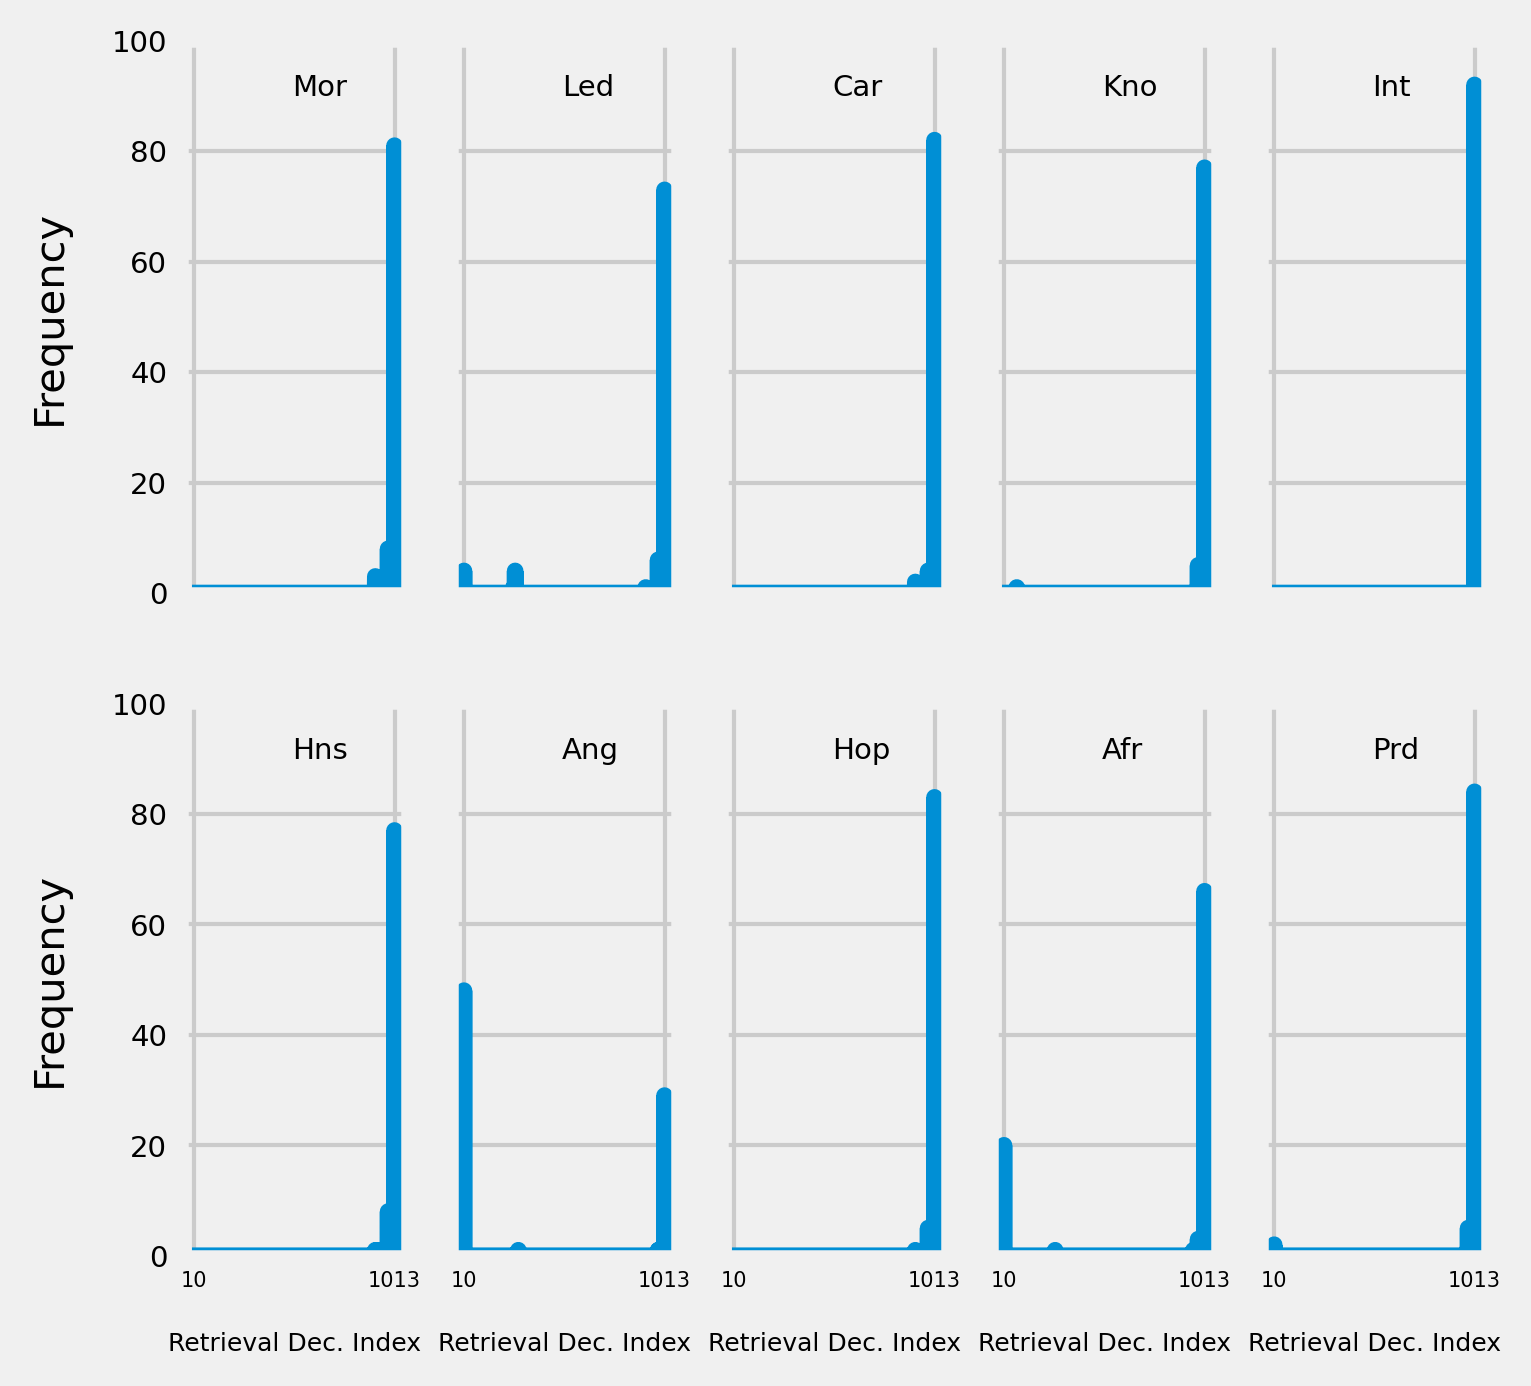
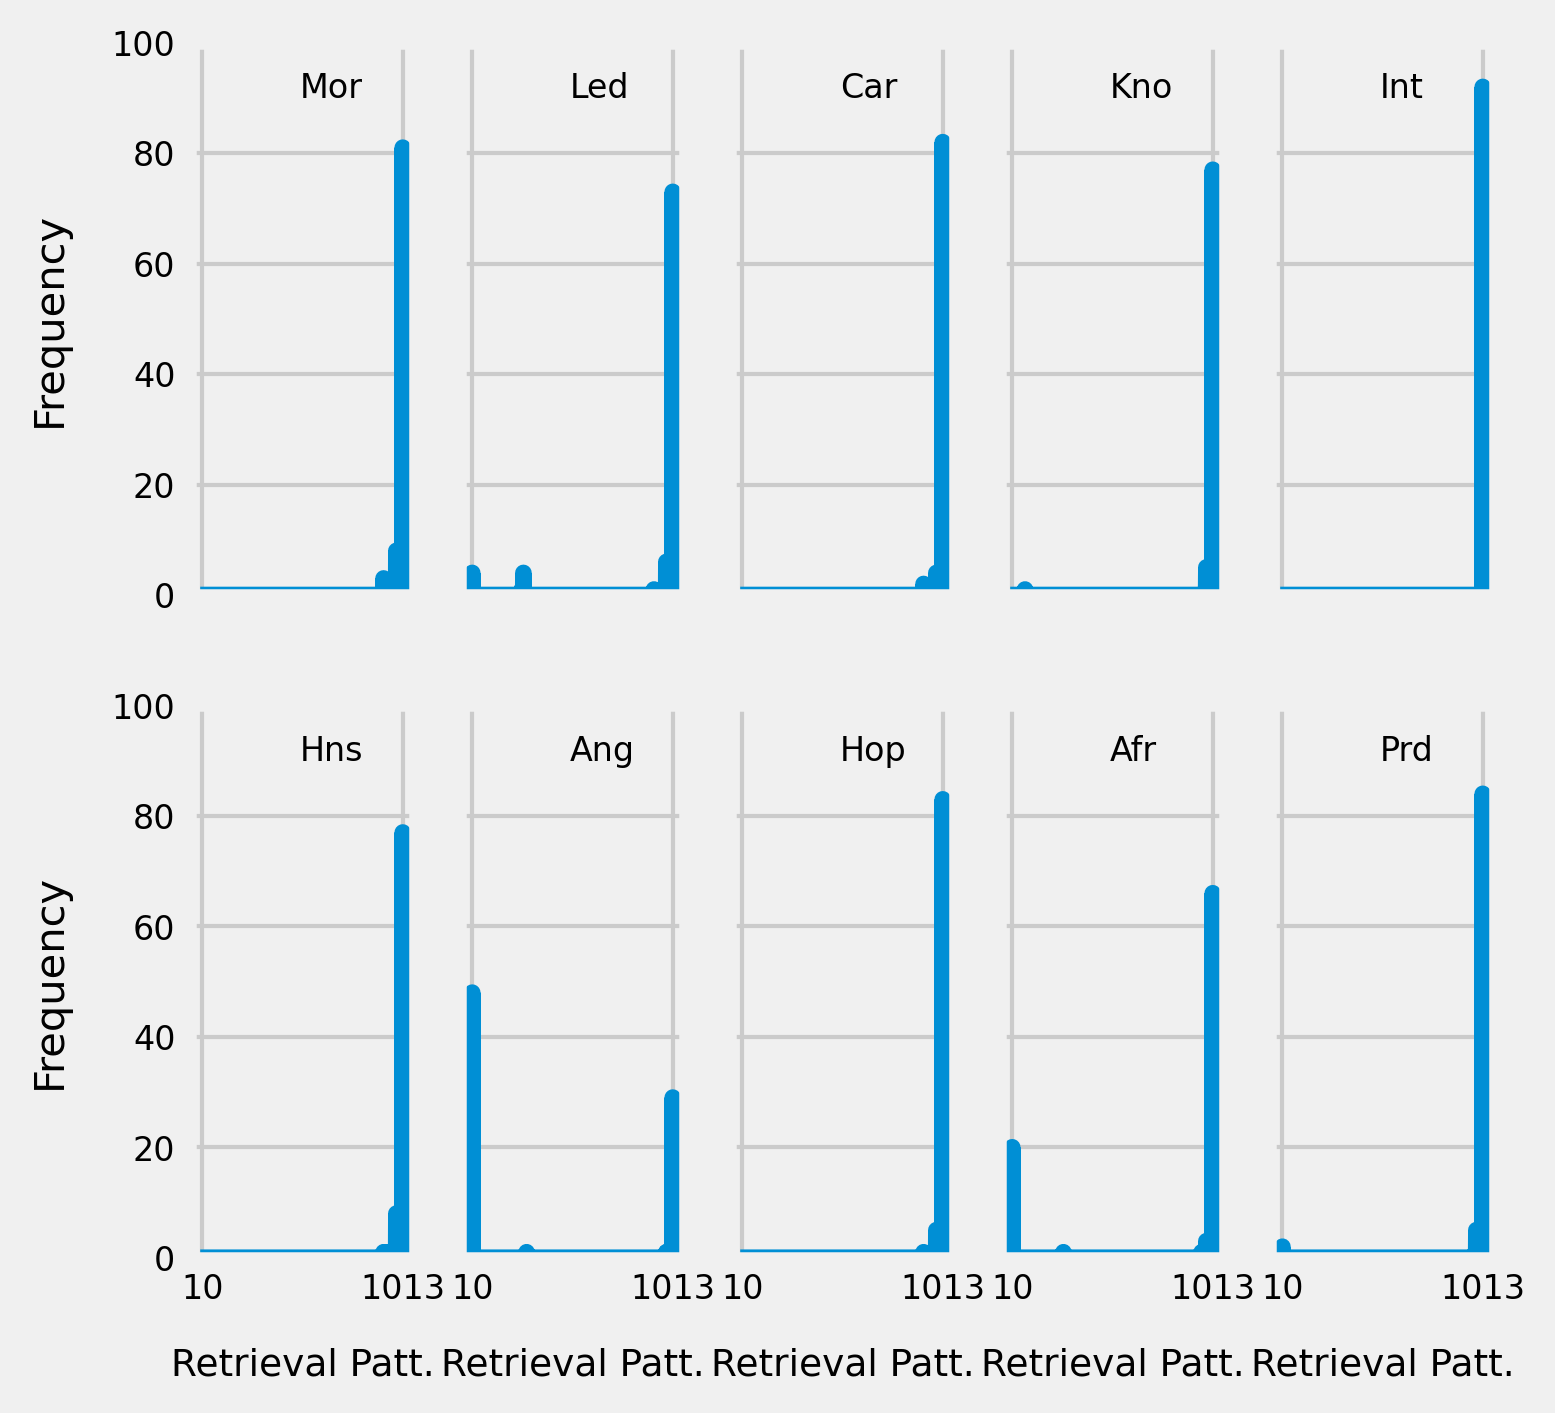
std

diff --git a/src/sims/file5.py b/src/sims/file5.py
@@ -83,14 +83,14 @@ x = np.arange(0,10)
 fig, axes = plt.subplots(1,1,figsize=(5,5))
 
 axes.plot(x,can_catch_cue_wass,color='blue',marker='o',dashes=[0,2,2,2],label='CAN',linewidth=1)
-axes.plot(x,ibl_catch_cue_wass,color='black',marker='+',dashes=[0,0,2,2],label='IBL',linewidth=1)
+axes.plot(x,ibl_catch_cue_wass,color='black',marker='+',dashes=[0,0,2,2],label='ACT-R',linewidth=1)
 axes.legend()
 
-axes.set_xlabel('Retrieval Cue', labelpad=2,size=10)
-axes.set_ylabel('Wass. Distance', labelpad=1,size=10)
+axes.set_xlabel('Retrieval Cue', labelpad=2,size=12)
+axes.set_ylabel('Wasserstein Distance', labelpad=1,size=12)
 axes.set_ylim([0,1])
-axes.tick_params(axis='x', labelsize=7)
-axes.tick_params(axis='y', labelsize=7)
+axes.tick_params(axis='x', labelsize=9)
+axes.tick_params(axis='y', labelsize=9)
 axes.set_xticks(x)
 axes.set_xticklabels(labels=['Mor','Led','Car', 'Kno', 'Int', 'Hns', 'Ang', 'Hop', 'Afr', 'Prd'])
 plt.savefig(f'{graph_out_dir}Cued_WASS_CAN-IBL.png',dpi=300,bbox_inches='tight')
@@ -113,25 +113,25 @@ for x in range(0,2):
         axes[x,y].plot(ibl.dist_of_endstates(sim_endstates))
         axes[x,y].set_ylim(0,100)
         
-        axes[x,y].text(500,90,cue_list[counter],fontsize=7)
+        axes[x,y].text(500,90,cue_list[counter],fontsize=8)
         counter = counter+1
         #print(x,' ',y,' ',counter)
 
 axes[0,0].set_ylabel('Frequency', labelpad=10,size=10)
 axes[1,0].set_ylabel('Frequency', labelpad=10,size=10)
-axes[1,0].set_xlabel('Retrieval Dec. Index', labelpad=10,size=6)
-axes[1,1].set_xlabel('Retrieval Dec. Index', labelpad=10,size=6)
-axes[1,2].set_xlabel('Retrieval Dec. Index', labelpad=10,size=6)
-axes[1,3].set_xlabel('Retrieval Dec. Index', labelpad=10,size=6)
-axes[1,4].set_xlabel('Retrieval Dec. Index', labelpad=10,size=6)
+axes[1,0].set_xlabel('Retrieval Patt.', labelpad=10,size=9)
+axes[1,1].set_xlabel('Retrieval Patt.', labelpad=10,size=9)
+axes[1,2].set_xlabel('Retrieval Patt.', labelpad=10,size=9)
+axes[1,3].set_xlabel('Retrieval Patt.', labelpad=10,size=9)
+axes[1,4].set_xlabel('Retrieval Patt.', labelpad=10,size=9)
 
-axes[1,0].tick_params(axis='x', labelsize=5)
-axes[1,1].tick_params(axis='x', labelsize=5)
-axes[1,2].tick_params(axis='x', labelsize=5)
-axes[1,3].tick_params(axis='x', labelsize=5)
-axes[1,4].tick_params(axis='x', labelsize=5)
-axes[0,0].tick_params(axis='y', labelsize=7)
-axes[1,0].tick_params(axis='y', labelsize=7)
+axes[1,0].tick_params(axis='x', labelsize=8)
+axes[1,1].tick_params(axis='x', labelsize=8)
+axes[1,2].tick_params(axis='x', labelsize=8)
+axes[1,3].tick_params(axis='x', labelsize=8)
+axes[1,4].tick_params(axis='x', labelsize=8)
+axes[0,0].tick_params(axis='y', labelsize=8)
+axes[1,0].tick_params(axis='y', labelsize=8)
 axes[1,0].set_xticks([10,1013])
 axes[1,0].set_xticklabels(labels=['10','1013'])
 
@@ -154,25 +154,25 @@ for x in range(0,2):
         axes[x,y].plot(ibl.dist_of_endstates(sim_endstates))
         axes[x,y].set_ylim(0,100)
         
-        axes[x,y].text(500,90,cue_list[counter],fontsize=7)
+        axes[x,y].text(500,90,cue_list[counter],fontsize=8)
         counter = counter+1
         #print(x,' ',y,' ',counter)
 
 axes[0,0].set_ylabel('Frequency', labelpad=10,size=10)
 axes[1,0].set_ylabel('Frequency', labelpad=10,size=10)
-axes[1,0].set_xlabel('Retrieval Dec. Index', labelpad=10,size=6)
-axes[1,1].set_xlabel('Retrieval Dec. Index', labelpad=10,size=6)
-axes[1,2].set_xlabel('Retrieval Dec. Index', labelpad=10,size=6)
-axes[1,3].set_xlabel('Retrieval Dec. Index', labelpad=10,size=6)
-axes[1,4].set_xlabel('Retrieval Dec. Index', labelpad=10,size=6)
+axes[1,0].set_xlabel('Retrieval Patt.', labelpad=10,size=9)
+axes[1,1].set_xlabel('Retrieval Patt.', labelpad=10,size=9)
+axes[1,2].set_xlabel('Retrieval Patt.', labelpad=10,size=9)
+axes[1,3].set_xlabel('Retrieval Patt.', labelpad=10,size=9)
+axes[1,4].set_xlabel('Retrieval Patt.', labelpad=10,size=9)
 
-axes[1,0].tick_params(axis='x', labelsize=5)
-axes[1,1].tick_params(axis='x', labelsize=5)
-axes[1,2].tick_params(axis='x', labelsize=5)
-axes[1,3].tick_params(axis='x', labelsize=5)
-axes[1,4].tick_params(axis='x', labelsize=5)
-axes[0,0].tick_params(axis='y', labelsize=7)
-axes[1,0].tick_params(axis='y', labelsize=7)
+axes[1,0].tick_params(axis='x', labelsize=8)
+axes[1,1].tick_params(axis='x', labelsize=8)
+axes[1,2].tick_params(axis='x', labelsize=8)
+axes[1,3].tick_params(axis='x', labelsize=8)
+axes[1,4].tick_params(axis='x', labelsize=8)
+axes[0,0].tick_params(axis='y', labelsize=8)
+axes[1,0].tick_params(axis='y', labelsize=8)
 axes[1,0].set_xticks([10,1013])
 axes[1,0].set_xticklabels(labels=['10','1013'])
 

diff --git a/src/sims/file1.py b/src/sims/file1.py
@@ -28,62 +28,17 @@ plt.style.use('fivethirtyeight')
 fig, axes = plt.subplots(1,1,figsize=(5,5),sharex=True,sharey=True)
 axes.plot(ibl.dist_of_endstates(real_sim_endstates))
 axes.set_ylabel('Frequency', labelpad=3,size=10)
-axes.set_xlabel('Retrieval Dec. Index', labelpad=3,size=10)
-axes.tick_params(axis='x', labelsize=5)
-axes.tick_params(axis='y', labelsize=7)
+axes.set_xlabel('Respondent Decimal Index', labelpad=3,size=10)
+axes.tick_params(axis='x', labelsize=10)
+axes.tick_params(axis='y', labelsize=10)
 
 #axes.set_xticks([10,1013])
 #axes.set_xticklabels(labels=['10','1013'],rotation=45)
-axes.set_xticks([0,10,100,500,1000,1023])
-axes.set_xticklabels(labels=[0,10,100,500,1000,1023],rotation=60)
+axes.set_xticks([10,100,500,1013])
+axes.set_xticklabels(labels=[10,100,500,1013],rotation=60)
 plt.savefig(f'{graph_out_dir}Fig_Gibbs_RealData.png',dpi=400,bbox_inches='tight')
 
 '''COMBINE INTO ONE PLOT'''
-
-
-
-axes[0,0].set_ylabel('Frequency (IBL)', labelpad=10,size=10)
-axes[1,0].set_ylabel('Frequency (CAN)', labelpad=10,size=10)
-axes[1,0].set_xlabel('Retrieval Dec. Index', labelpad=10,size=6)
-axes[1,1].set_xlabel('Retrieval Dec. Index', labelpad=10,size=6)
-axes[1,2].set_xlabel('Retrieval Dec. Index', labelpad=10,size=6)
-axes[1,3].set_xlabel('Retrieval Dec. Index', labelpad=10,size=6)
-
-axes[1,0].tick_params(axis='x', labelsize=5)
-axes[1,1].tick_params(axis='x', labelsize=5)
-axes[1,2].tick_params(axis='x', labelsize=5)
-axes[1,3].tick_params(axis='x', labelsize=5)
-axes[0,0].tick_params(axis='y', labelsize=7)
-axes[1,0].tick_params(axis='y', labelsize=7)
-axes[1,0].set_xticks([10,1013])
-axes[1,0].set_xticklabels(labels=['10','1013'])
-
-#CAN
-noise_list = [9,2,1,.125]
-noise_list_invert = [.11,.5,1,8]
-panel_list = ['A*','B*','C*','D*']
-counter = 0
-
-for x in range(1,2):
-    for y in range(0,4):
-        ns_fn = noise_list[counter]
-        sim_name = f'can_beta_{ns_fn}'
-        sim_endstates = ibl.extract_endstates(f'{data_out_dir}{sim_name}.csv')
-        dist_endstates = ibl.dist_of_endstates(sim_endstates)
-        axes[x,y].plot(ibl.dist_of_endstates(sim_endstates))
-        axes[x,y].set_ylim(0,100)
-        axes[x,y].text(20,85,f'Noise = {noise_list_invert[counter]}',fontsize=5)
-        axes[x,y].text(850,95,panel_list[counter],fontsize=7)
-        counter = counter+1
-        #print(x,' ',y,' ',counter)
-
-plt.subplots_adjust(wspace=.2,hspace=.2,left=0.15,bottom=0.15,right=0.90,top=0.90,)
-plt.savefig(f'{graph_out_dir}CAN_Gibbs_2X4.png',dpi=300,bbox_inches='tight')
-#plt.show()
-#EOF
-
-
-
 
 
 '''SIM RUNS'''
@@ -196,20 +151,20 @@ x = np.arange(1,18)
 fig, axes = plt.subplots(1,1,figsize=(5,5))
 
 axes.plot(x,can_num_att_by_noise,color='blue',marker='o',dashes=[0,2,2,2],label='CAN',linewidth=1)
-axes.plot(x,ibl_num_att_by_noise,color='black',marker='+',dashes=[0,0,2,2],label='IBL',linewidth=1)
+axes.plot(x,ibl_num_att_by_noise,color='black',marker='+',dashes=[0,0,2,2],label='ACT-R',linewidth=1)
 axes.legend()
 
-axes.set_xlabel('Noise Level (IBL)', labelpad=2,size=10)
-axes.set_ylabel('Number of Unique Endstates', labelpad=1,size=10)
+axes.set_xlabel('Noise Level (ACT-R)', labelpad=2,size=12)
+axes.set_ylabel('Number of Unique Retrievals', labelpad=1,size=12)
 
-axes.tick_params(axis='x', labelsize=7)
-axes.tick_params(axis='y', labelsize=7)
+axes.tick_params(axis='x', labelsize=9)
+axes.tick_params(axis='y', labelsize=9)
 axes.set_xticks(x)
 axes.set_xticklabels(labels=['.01','.1','.20','.30','.40','.5','.6','.7','.8','.9','1','1.5','2','4','6','8','10'])
 #SECOND AXIS
 axes2 = axes.twiny()
-axes2.set_xlabel('Noise Level (CAN)', labelpad=2,size=10)
-axes2.tick_params(axis='x', labelsize=7)
+axes2.set_xlabel('Noise Level (CAN)', labelpad=2,size=12)
+axes2.tick_params(axis='x', labelsize=9)
 axes2.set_xticks(x)
 axes2.set_xticklabels(labels=['0.05','0.1','.11','.125','.14','.17','.2','.25','.33','.5','1','2','4','8','13','33','100'])
 plt.savefig(f'{graph_out_dir}Num_Endstates_CAN-IBL.png',dpi=300,bbox_inches='tight')

diff --git a/src/sims/file3.py b/src/sims/file3.py
@@ -97,24 +97,24 @@ for x in range(0,1):
         dist_endstates = ibl.dist_of_endstates(sim_endstates)
         axes[x,y].plot(ibl.dist_of_endstates(sim_endstates))
         axes[x,y].set_ylim(0,100)
-        axes[x,y].text(20,85,f'Noise = {ns_fn}',fontsize=5)
-        axes[x,y].text(850,95,panel_list[counter],fontsize=7)
+        axes[x,y].text(20,85,f'Noise={ns_fn}',fontsize=8)
+        axes[x,y].text(850,95,panel_list[counter],fontsize=8)
         counter = counter+1
         #print(x,' ',y,' ',counter)
 
-axes[0,0].set_ylabel('Frequency (IBL)', labelpad=10,size=10)
+axes[0,0].set_ylabel('Frequency (ACT-R)', labelpad=10,size=10)
 axes[1,0].set_ylabel('Frequency (CAN)', labelpad=10,size=10)
-axes[1,0].set_xlabel('Retrieval Dec. Index', labelpad=10,size=6)
-axes[1,1].set_xlabel('Retrieval Dec. Index', labelpad=10,size=6)
-axes[1,2].set_xlabel('Retrieval Dec. Index', labelpad=10,size=6)
-axes[1,3].set_xlabel('Retrieval Dec. Index', labelpad=10,size=6)
+axes[1,0].set_xlabel('Retrieval Patt.', labelpad=10,size=9)
+axes[1,1].set_xlabel('Retrieval Patt.', labelpad=10,size=9)
+axes[1,2].set_xlabel('Retrieval Patt.', labelpad=10,size=9)
+axes[1,3].set_xlabel('Retrieval Patt.', labelpad=10,size=9)
 
-axes[1,0].tick_params(axis='x', labelsize=5)
-axes[1,1].tick_params(axis='x', labelsize=5)
-axes[1,2].tick_params(axis='x', labelsize=5)
-axes[1,3].tick_params(axis='x', labelsize=5)
-axes[0,0].tick_params(axis='y', labelsize=7)
-axes[1,0].tick_params(axis='y', labelsize=7)
+axes[1,0].tick_params(axis='x', labelsize=8)
+axes[1,1].tick_params(axis='x', labelsize=8)
+axes[1,2].tick_params(axis='x', labelsize=8)
+axes[1,3].tick_params(axis='x', labelsize=8)
+axes[0,0].tick_params(axis='y', labelsize=8)
+axes[1,0].tick_params(axis='y', labelsize=8)
 axes[1,0].set_xticks([10,1013])
 axes[1,0].set_xticklabels(labels=['10','1013'])
 
@@ -132,8 +132,8 @@ for x in range(1,2):
         dist_endstates = ibl.dist_of_endstates(sim_endstates)
         axes[x,y].plot(ibl.dist_of_endstates(sim_endstates))
         axes[x,y].set_ylim(0,100)
-        axes[x,y].text(20,85,f'Noise = {noise_list_invert[counter]}',fontsize=5)
-        axes[x,y].text(850,95,panel_list[counter],fontsize=7)
+        axes[x,y].text(20,85,f'Noise={noise_list_invert[counter]}',fontsize=8)
+        axes[x,y].text(850,95,panel_list[counter],fontsize=8)
         counter = counter+1
         #print(x,' ',y,' ',counter)
 
